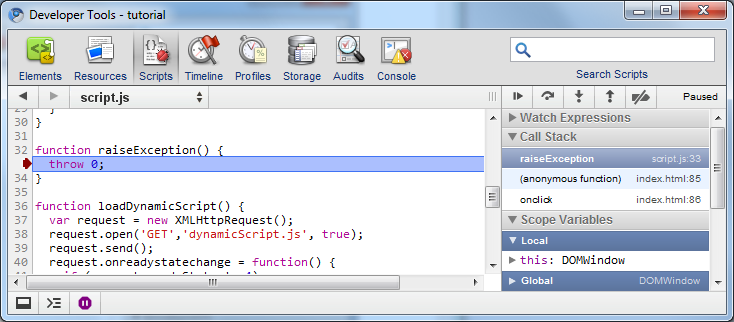
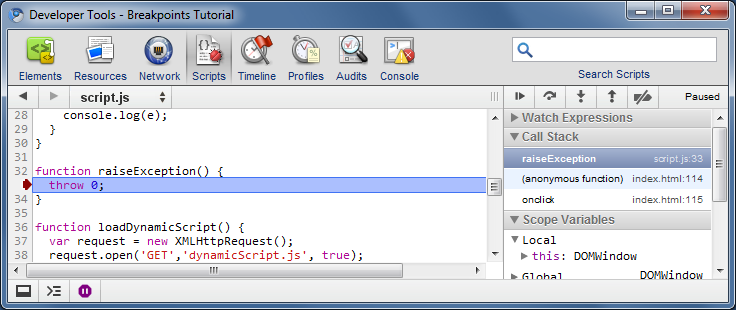
Update screenshots and Event Listeners breakpoint types list

diff --git a/tutorials/breapoints/index.html b/tutorials/breapoints/index.html
@@ -154,7 +154,6 @@ XHR breakpoint from Network Panel:</div>
   <li>Go to Network Panel and select XHR resource category</li>
   <li>Right-click on "data.txt" resource and click "Set XHR Breakpoint" in context menu</li>
   <li>XHR Breakpoint will be added to XHR Breakpoints pane</li>
-  <br><img src=images/setXHRBreakpointFromNetworkPanel.png></img><br><br>
 </ol>
 
 <h1><a name="eventListener">Breakpoints on JavaScript Event Listeners</a></h1>
@@ -169,12 +168,20 @@ XHR breakpoint from Network Panel:</div>
   <li>Move your mouse across the box below:</li>
   <div id="hoverme" class="test-element" style="width: 100px">Hover me!</div>
   <li>You should stop on mouseout event handler</li>
-  <br><img src=images/pauseInHoverHandler.png></img><br><br>
+  <br><img src=images/pauseOnMouseOut.png></img><br><br>
   <li>Press play or hit F8 to resume</li>
 </ol>
 <br>
 <div>The list of supported events:
 <ol>
+  <li>Keyboard
+  <ul>
+    <li>keydown</li>
+    <li>keypress</li>
+    <li>keyup</li>
+    <li>textInput</li>
+  </ul>
+  </li>
   <li>Mouse
   <ul>
     <li>click</li>
@@ -187,19 +194,56 @@ XHR breakpoint from Network Panel:</div>
     <li>mousewheel</li>
   </ul>
   </li>
-  <li>Keyboard
+  <li>Control
   <ul>
-    <li>keydown</li>
-    <li>keypress</li>
-    <li>keyup</li>
-  </ul>
-  </li>
-  <li>HTML frame/object
-  <ul>
-    <li>load</li>
-    <li>error</li>
     <li>resize</li>
     <li>scroll</li>
+    <li>zoom</li>
+    <li>focus</li>
+    <li>blur</li>
+    <li>select</li>
+    <li>change</li>
+    <li>submit</li>
+    <li>reset</li>
+  </ul>
+  </li>
+  <li>Clipboard
+  <ul>
+    <li>copy</li>
+    <li>cut</li>
+    <li>paste</li>
+    <li>beforecopy</li>
+    <li>beforecut</li>
+    <li>beforepaste</li>
+  </ul>
+  </li>
+  <li>Load
+  <ul>
+    <li>load</li>
+    <li>unload</li>
+    <li>abort</li>
+    <li>error</li>
+  </ul>
+  </li>
+  <li>DOM Mutation
+  <ul>
+    <li>DOMActivate</li>
+    <li>DOMFocusIn</li>
+    <li>DOMFocusOut</li>
+    <li>DOMAttrModified</li>
+    <li>DOMCharacterDataModified</li>
+    <li>DOMNodeInserted</li>
+    <li>DOMNodeInsertedIntoDocument</li>
+    <li>DOMNodeRemoved</li>
+    <li>DOMNodeRemovedFromDocument</li>
+    <li>DOMSubtreeModified</li>
+    <li>DOMContentLoaded</li>
+  </ul>
+  </li>
+  <li>Device
+  <ul>
+    <li>deviceorientation</li>
+    <li>devicemotion</li>
   </ul>
   </li>
 </ol>
